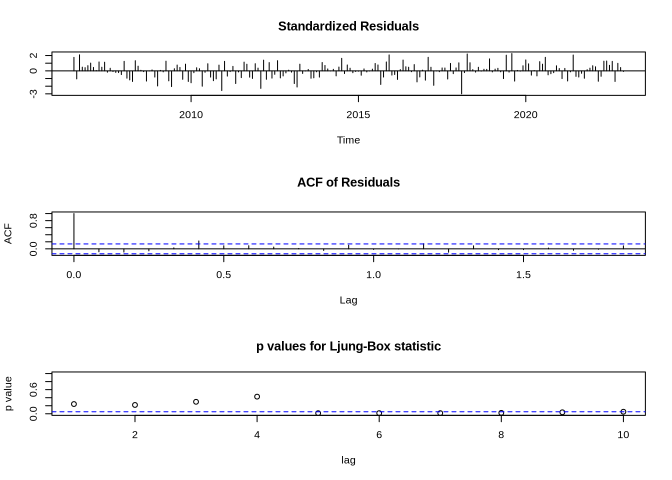
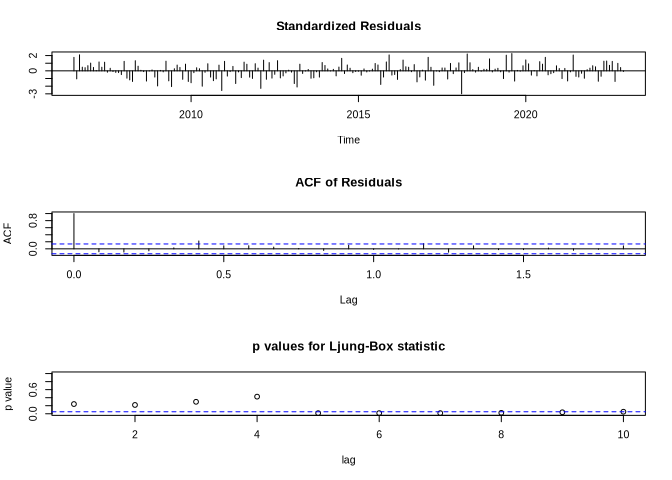
updated plots

diff --git a/docs/units/_unit09/unit09-03_arima.md b/docs/units/_unit09/unit09-03_arima.md
@@ -13,9 +13,6 @@ Since the latter often requires continuous i.e. gap-free observations, we start 
 To illustrate forecasting, we will again use the (mean monthly) air temperature records of the weather station in Cölbe (which is closest to Marburg). 
 The data has been supplied by the [German Weather Service](https://opendata.dwd.de/climate_environment/CDC/observations_germany){:target="_blank"}. 
 
-
-
-
 ```r
 head(tam)
 ```
@@ -39,7 +36,7 @@ On the contrary, it requires a stationary time series, which is a prerequisite w
 acf(tam$Ta)
 ```
 
-![]({{ site.baseurl }}/assets/images/rmd_images/e09-03/unnamed-chunk-3-1.png)<!-- -->
+![]({{ site.baseurl }}/assets/images/rmd_images/e09-03/unnamed-chunk-2-1.png)<!-- -->
 
 ### Auto-regressive models (AR)
 While we could start with de-trending and de-seasoning now, let us try a quick-and-dirty approach first and postpone the time series decomposition to the next session. 
@@ -51,7 +48,7 @@ dTa <- diff(diff(tam$Ta))
 acf(dTa)
 ```
 
-![]({{ site.baseurl }}/assets/images/rmd_images/e09-03/unnamed-chunk-4-1.png)<!-- -->
+![]({{ site.baseurl }}/assets/images/rmd_images/e09-03/unnamed-chunk-3-1.png)<!-- -->
 
 Not perfect but good enough to be used in this example. Before we run the ARIMA model, we run a simple AR model first:
 
@@ -84,7 +81,7 @@ The number of lags with the minimum AIC are used:
 plot(0:20, armod$aic, type = "o")
 ```
 
-![]({{ site.baseurl }}/assets/images/rmd_images/e09-03/unnamed-chunk-6-1.png)<!-- -->
+![]({{ site.baseurl }}/assets/images/rmd_images/e09-03/unnamed-chunk-5-1.png)<!-- -->
 
 Using the Yule-Walker method for estimating the AR parameters, a maximum lag of 14 is considered. 
 Although the results will be quite different if another method is used and although the following is of no use if one actually wants to use not just an AR or a MA but an ARIMA model, 
@@ -103,7 +100,7 @@ acf(dTa)
 pacf(dTa)
 ```
 
-![]({{ site.baseurl }}/assets/images/rmd_images/e09-03/unnamed-chunk-7-1.png)<!-- -->
+![]({{ site.baseurl }}/assets/images/rmd_images/e09-03/unnamed-chunk-6-1.png)<!-- -->
 
 ```r
 par(par_org)
@@ -158,27 +155,24 @@ In the ARIMA world, three parameters are generally required:
 Hence, if we want to compute an ARIMA comparable to the AR above (the second one), we call it with:
 
 ```r
-armod <- arima(tam$Ta, order = c(17,2,0), method = "ML")  # the order is p, d, q
+armod <- arima(tam$Ta, order = c(16,2,0), method = "ML")  # the order is p, d, q
 armod
 ```
 
 ```
 ## 
 ## Call:
-## arima(x = tam$Ta, order = c(17, 2, 0), method = "ML")
+## arima(x = tam$Ta, order = c(16, 2, 0), method = "ML")
 ## 
 ## Coefficients:
 ##           ar1      ar2      ar3      ar4      ar5      ar6      ar7      ar8
-##       -1.6116  -2.1231  -2.4783  -2.7759  -3.0871  -3.3227  -3.4265  -3.4376
-## s.e.   0.0723   0.1355   0.1969   0.2506   0.2894   0.3210   0.3440   0.3539
+##       -1.5905  -2.0603  -2.3734  -2.6106  -2.8770  -3.0727  -3.1417  -3.1373
+## s.e.   0.0708   0.1274   0.1809   0.2178   0.2424   0.2597   0.2684   0.2715
 ##           ar9     ar10     ar11     ar12     ar13     ar14     ar15     ar16
-##       -3.3866  -3.2361  -2.8672  -2.4386  -1.9423  -1.2944  -0.8321  -0.3545
-## s.e.   0.3556   0.3529   0.3432   0.3203   0.2887   0.2500   0.1961   0.1355
-##          ar17
-##       -0.0952
-## s.e.   0.0726
+##       -3.0825  -2.9320  -2.5703  -2.1606  -1.6898  -1.0649  -0.6344  -0.2024
+## s.e.   0.2712   0.2677   0.2595   0.2416   0.2165   0.1797   0.1265   0.0707
 ## 
-## sigma^2 estimated as 3.362:  log likelihood = -404.22,  aic = 844.44
+## sigma^2 estimated as 3.394:  log likelihood = -405.08,  aic = 844.15
 ```
 
 Finding the right values for an ARIMA model is not trivial. 
@@ -320,10 +314,10 @@ summary(arima_s)
 tsdiag(arima_s)
 ```
 
-![]({{ site.baseurl }}/assets/images/rmd_images/e09-03/unnamed-chunk-17-1.png)<!-- -->
+![]({{ site.baseurl }}/assets/images/rmd_images/e09-03/unnamed-chunk-18-1.png)<!-- -->
 
 ```r
 plot(forecast::forecast(arima_s))
 ```
 
-![]({{ site.baseurl }}/assets/images/rmd_images/e09-03/unnamed-chunk-17-2.png)<!-- -->
+![]({{ site.baseurl }}/assets/images/rmd_images/e09-03/unnamed-chunk-19-1.png)<!-- -->
